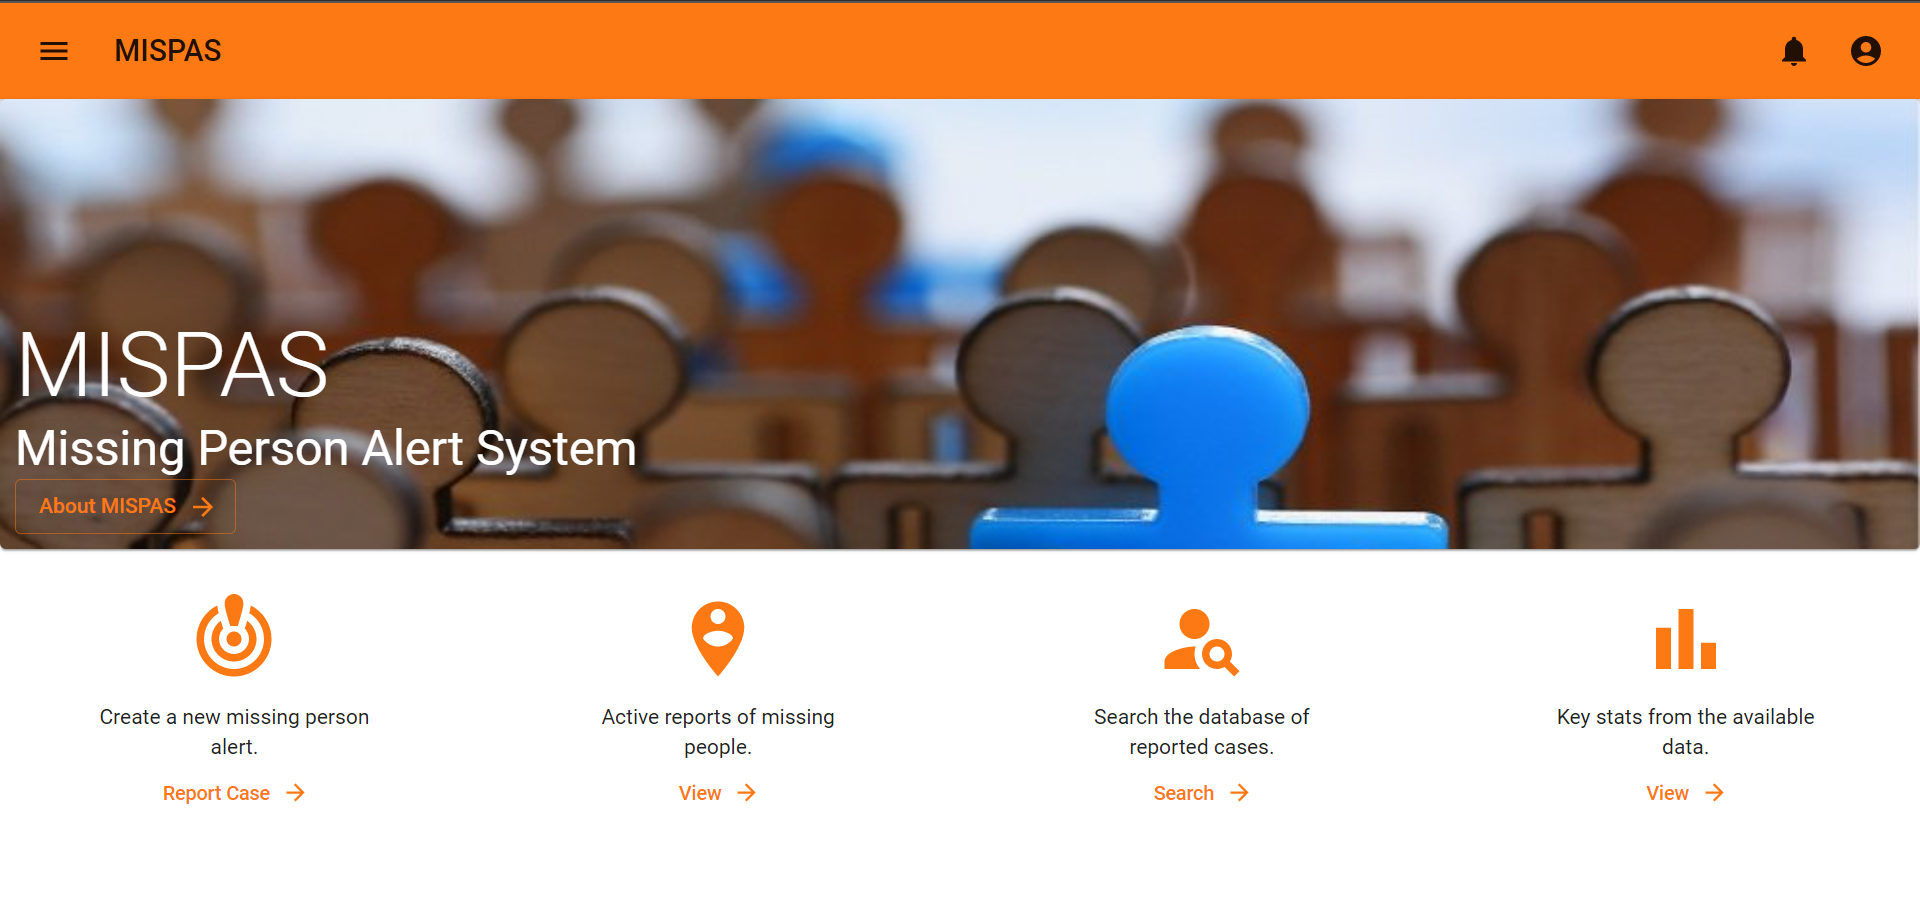
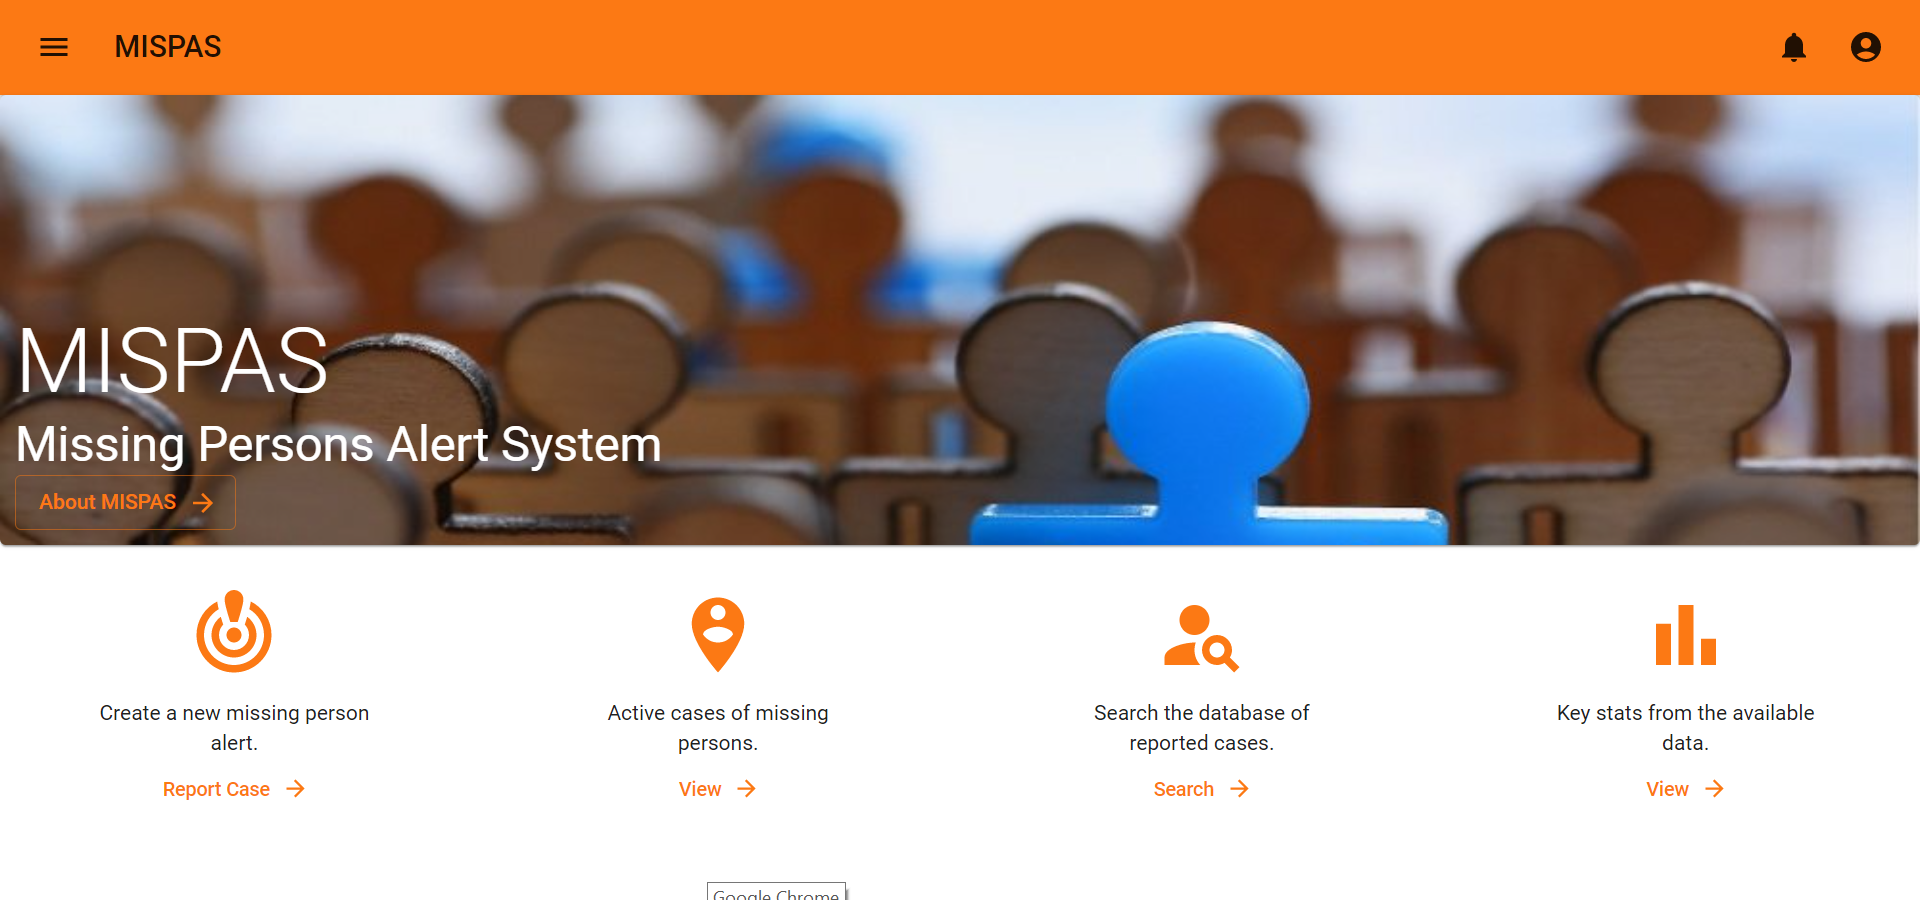
added homepage

diff --git a/src/i18n/homepage/sw.ts b/src/i18n/homepage/sw.ts
@@ -5,7 +5,7 @@ export default {
     "Unda arifa mpya kuhusu aliyepotea.",
   "homepage.linkCard.missingPersonsTitle": "Tazama",
   "homepage.linkCard.missingPersonsText":
-    "Ripoti amilifu za watu waliopotea.",
+    "Kesi amilifu za watu waliopotea.",
   "homepage.linkCard.searchTitle": "Tafuta",
   "homepage.linkCard.searchText":
     "Tafuta kwenye hifadhidata ya kesi zilizoripotiwa.",

diff --git a/src/i18n/homepage/en.ts b/src/i18n/homepage/en.ts
@@ -5,7 +5,7 @@ export default {
     "Create a new missing person alert.",
   "homepage.linkCard.missingPersonsTitle": "View",
   "homepage.linkCard.missingPersonsText":
-    "Active reports of missing people.",
+    "Active cases of missing persons.",
   "homepage.linkCard.searchTitle": "Search",
   "homepage.linkCard.searchText":
     "Search the database of reported cases.",

diff --git a/pages/index.tsx b/pages/index.tsx
@@ -113,7 +113,7 @@ export default function Home() {
             {t("MISPAS")}
           </Typography>
           <Typography variant="h4" sx={{ color: "#fff" }}>
-            {t("Missing Person Alert System")}
+            {t("Missing Persons Alert System")}
           </Typography>
           <Button
             sx={{ textTransform: "none" }}

diff --git a/README.md b/README.md
@@ -1,7 +1,7 @@
 ## Missing Persons Alert System
 
 ![MISPAS](./src/assets/homepage.PNG)
-This project aims to utilize the following technologies to provide a means to immediately broadcast to the appropriate users when and where a person was reported missing. It should also notify the concerned parties when and where a person was reported seen.
+This project aims to utilize the following technologies to provide a platform that immediately broadcasts to nearby people where and when a person was reported missing. It should also notify the concerned parties where and when a person was reported seen among other things.
 
 - [x] Next Js
 - [x] Firebase
